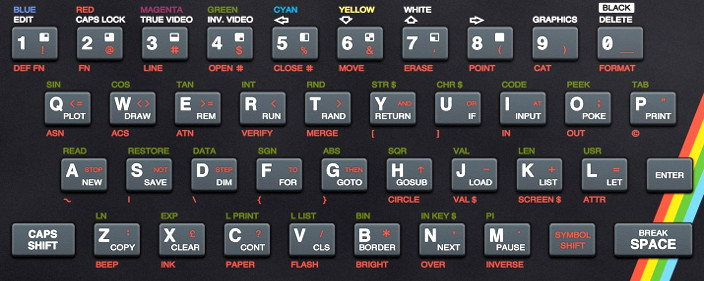
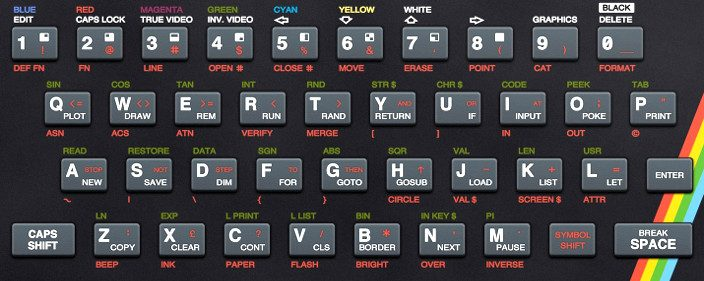
readme: keyboard added

diff --git a/README.md b/README.md
@@ -5,6 +5,7 @@ Example programs from the [tutorial] for building your own emulators with the [S
 
 This supplementary repository contains Rust crate with sources built from each of the tutorial steps.
 
+[![ZX Spectrum keyboard layout][keyboard]][keyboard]
 
 Prerequisites
 -------------
@@ -38,6 +39,7 @@ Some TAP files in the [resources](resources/) directory are ZX Spectrum games th
 
 [SPECTRUSTY]: https://royaltm.github.io/spectrusty/
 [tutorial]: https://royaltm.github.io/spectrusty-tutorial/
+[keyboard]: resources/spectrusty.png
 [Rust]: https://www.rust-lang.org/
 [Cargo]: https://crates.io/
 [RUSTUP]: https://www.rust-lang.org/learn/get-started#installing-rust
